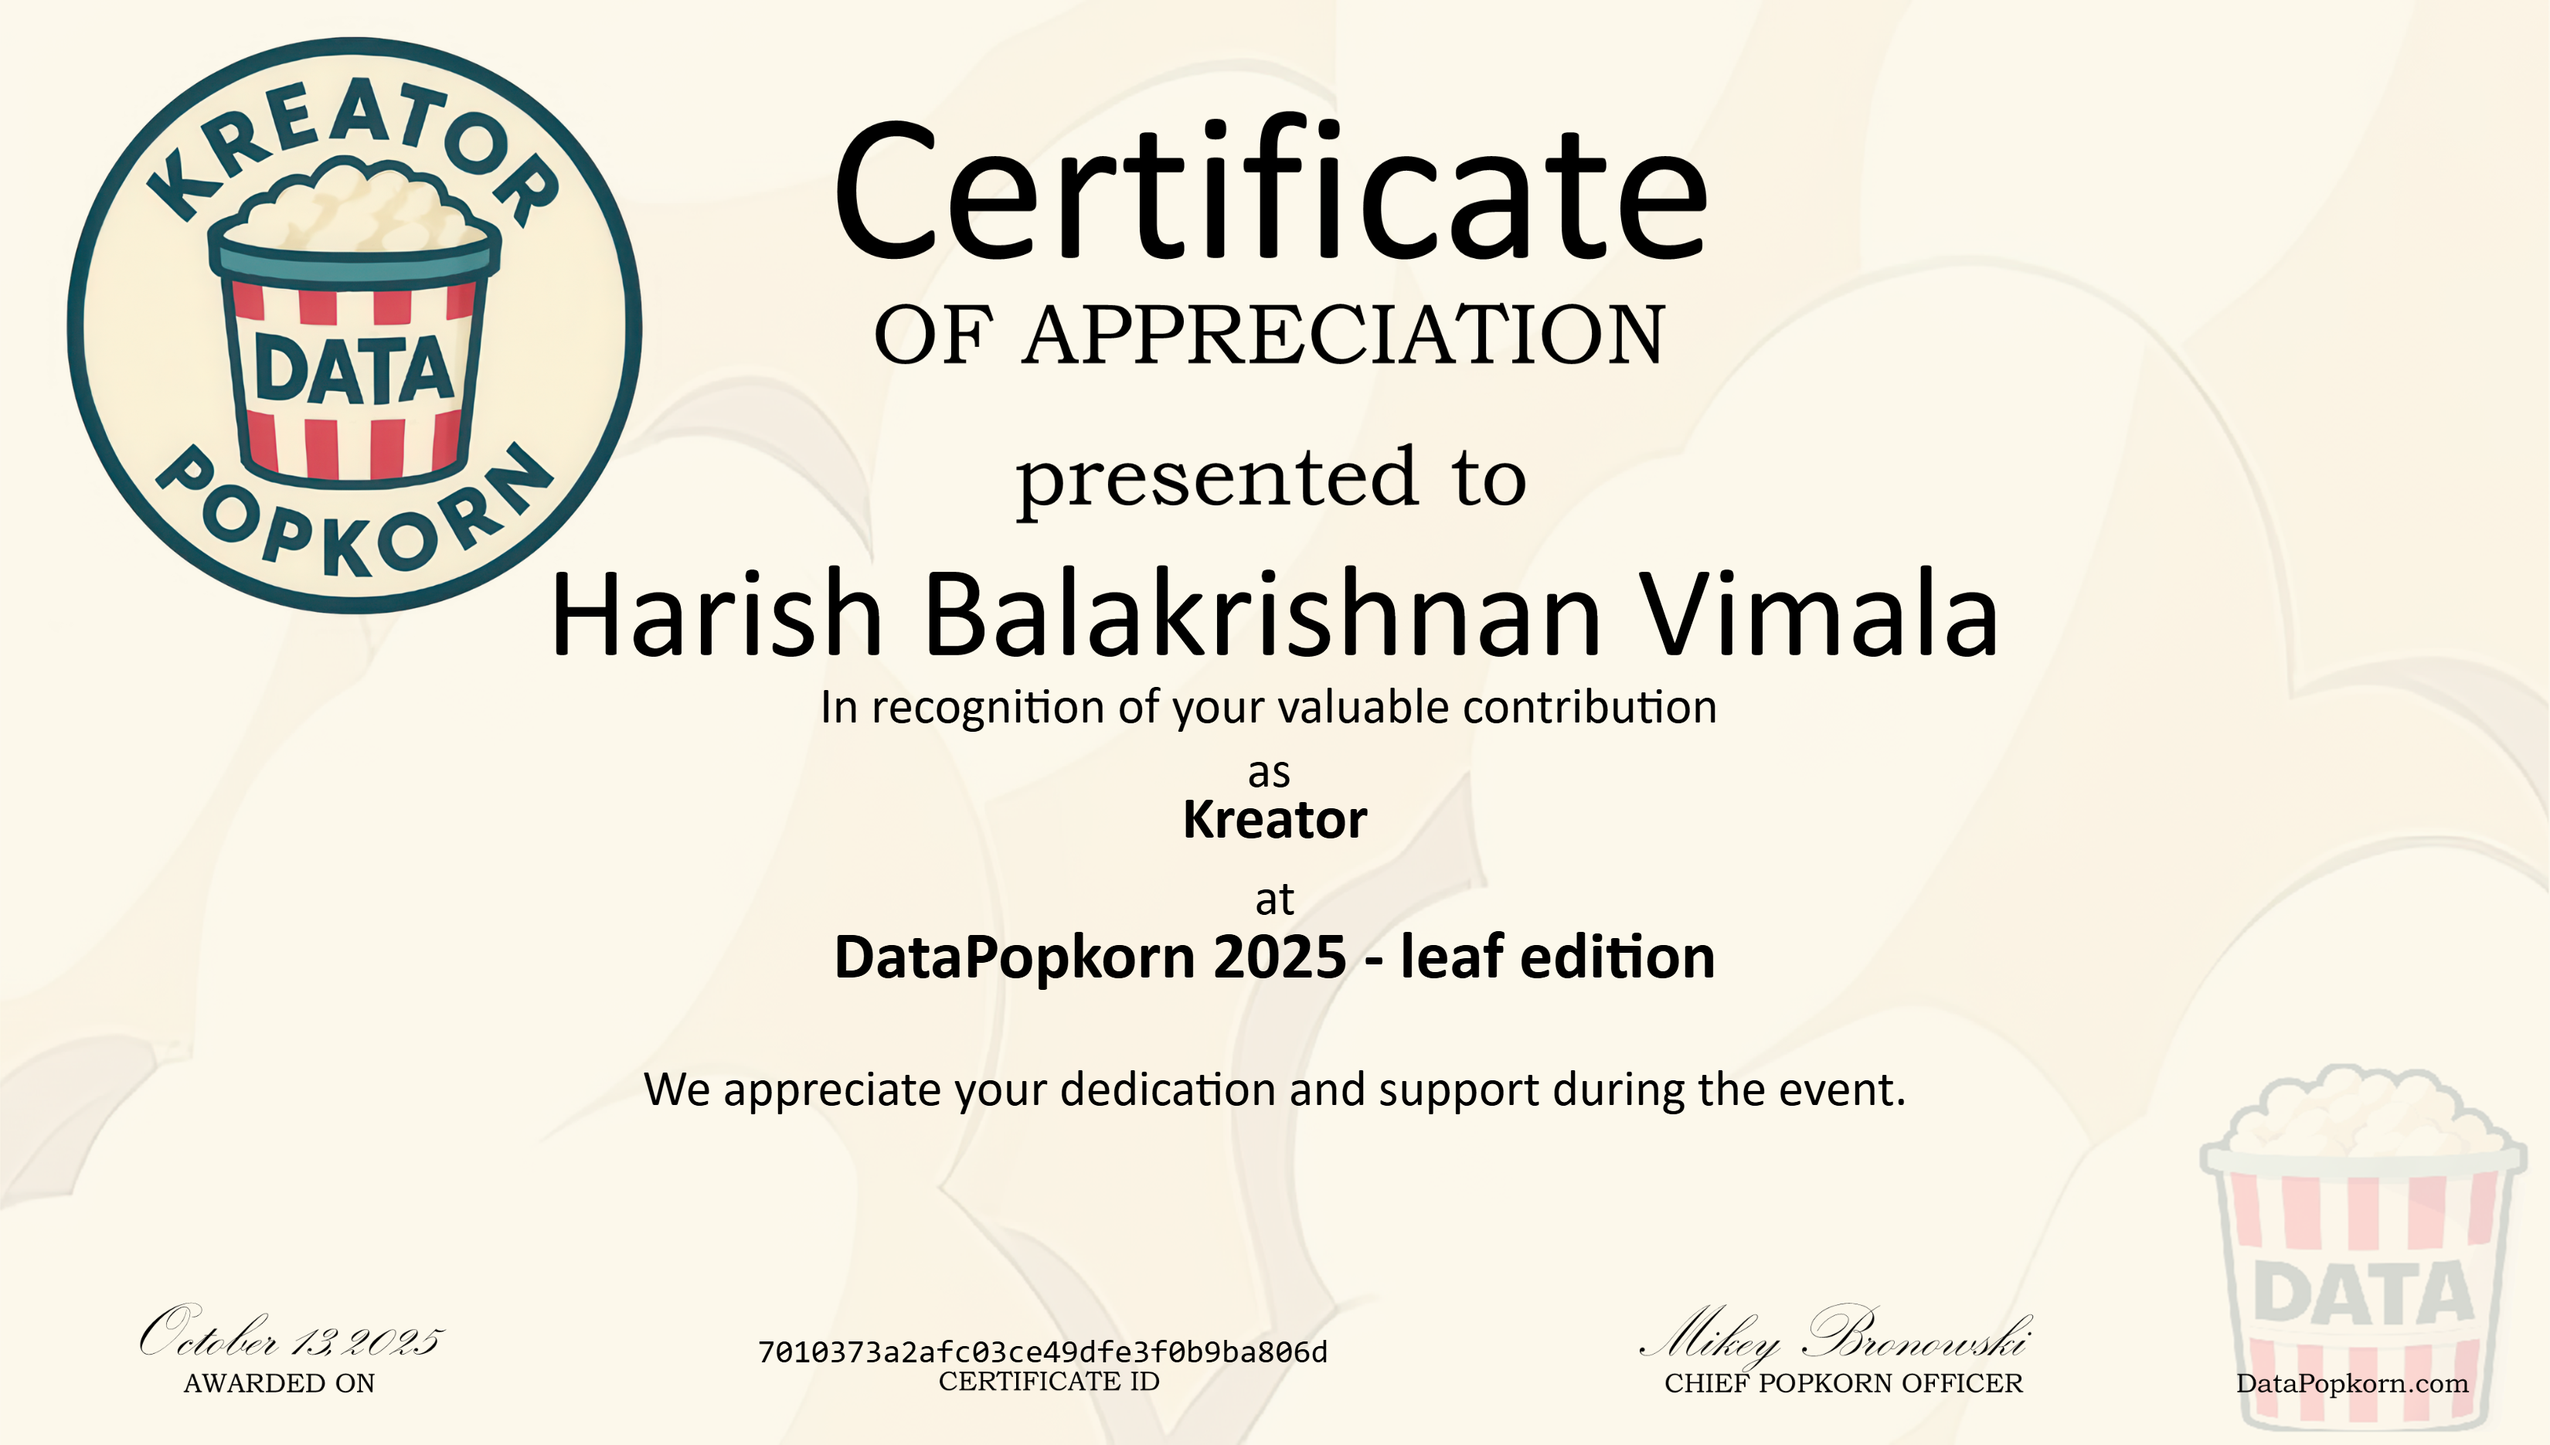
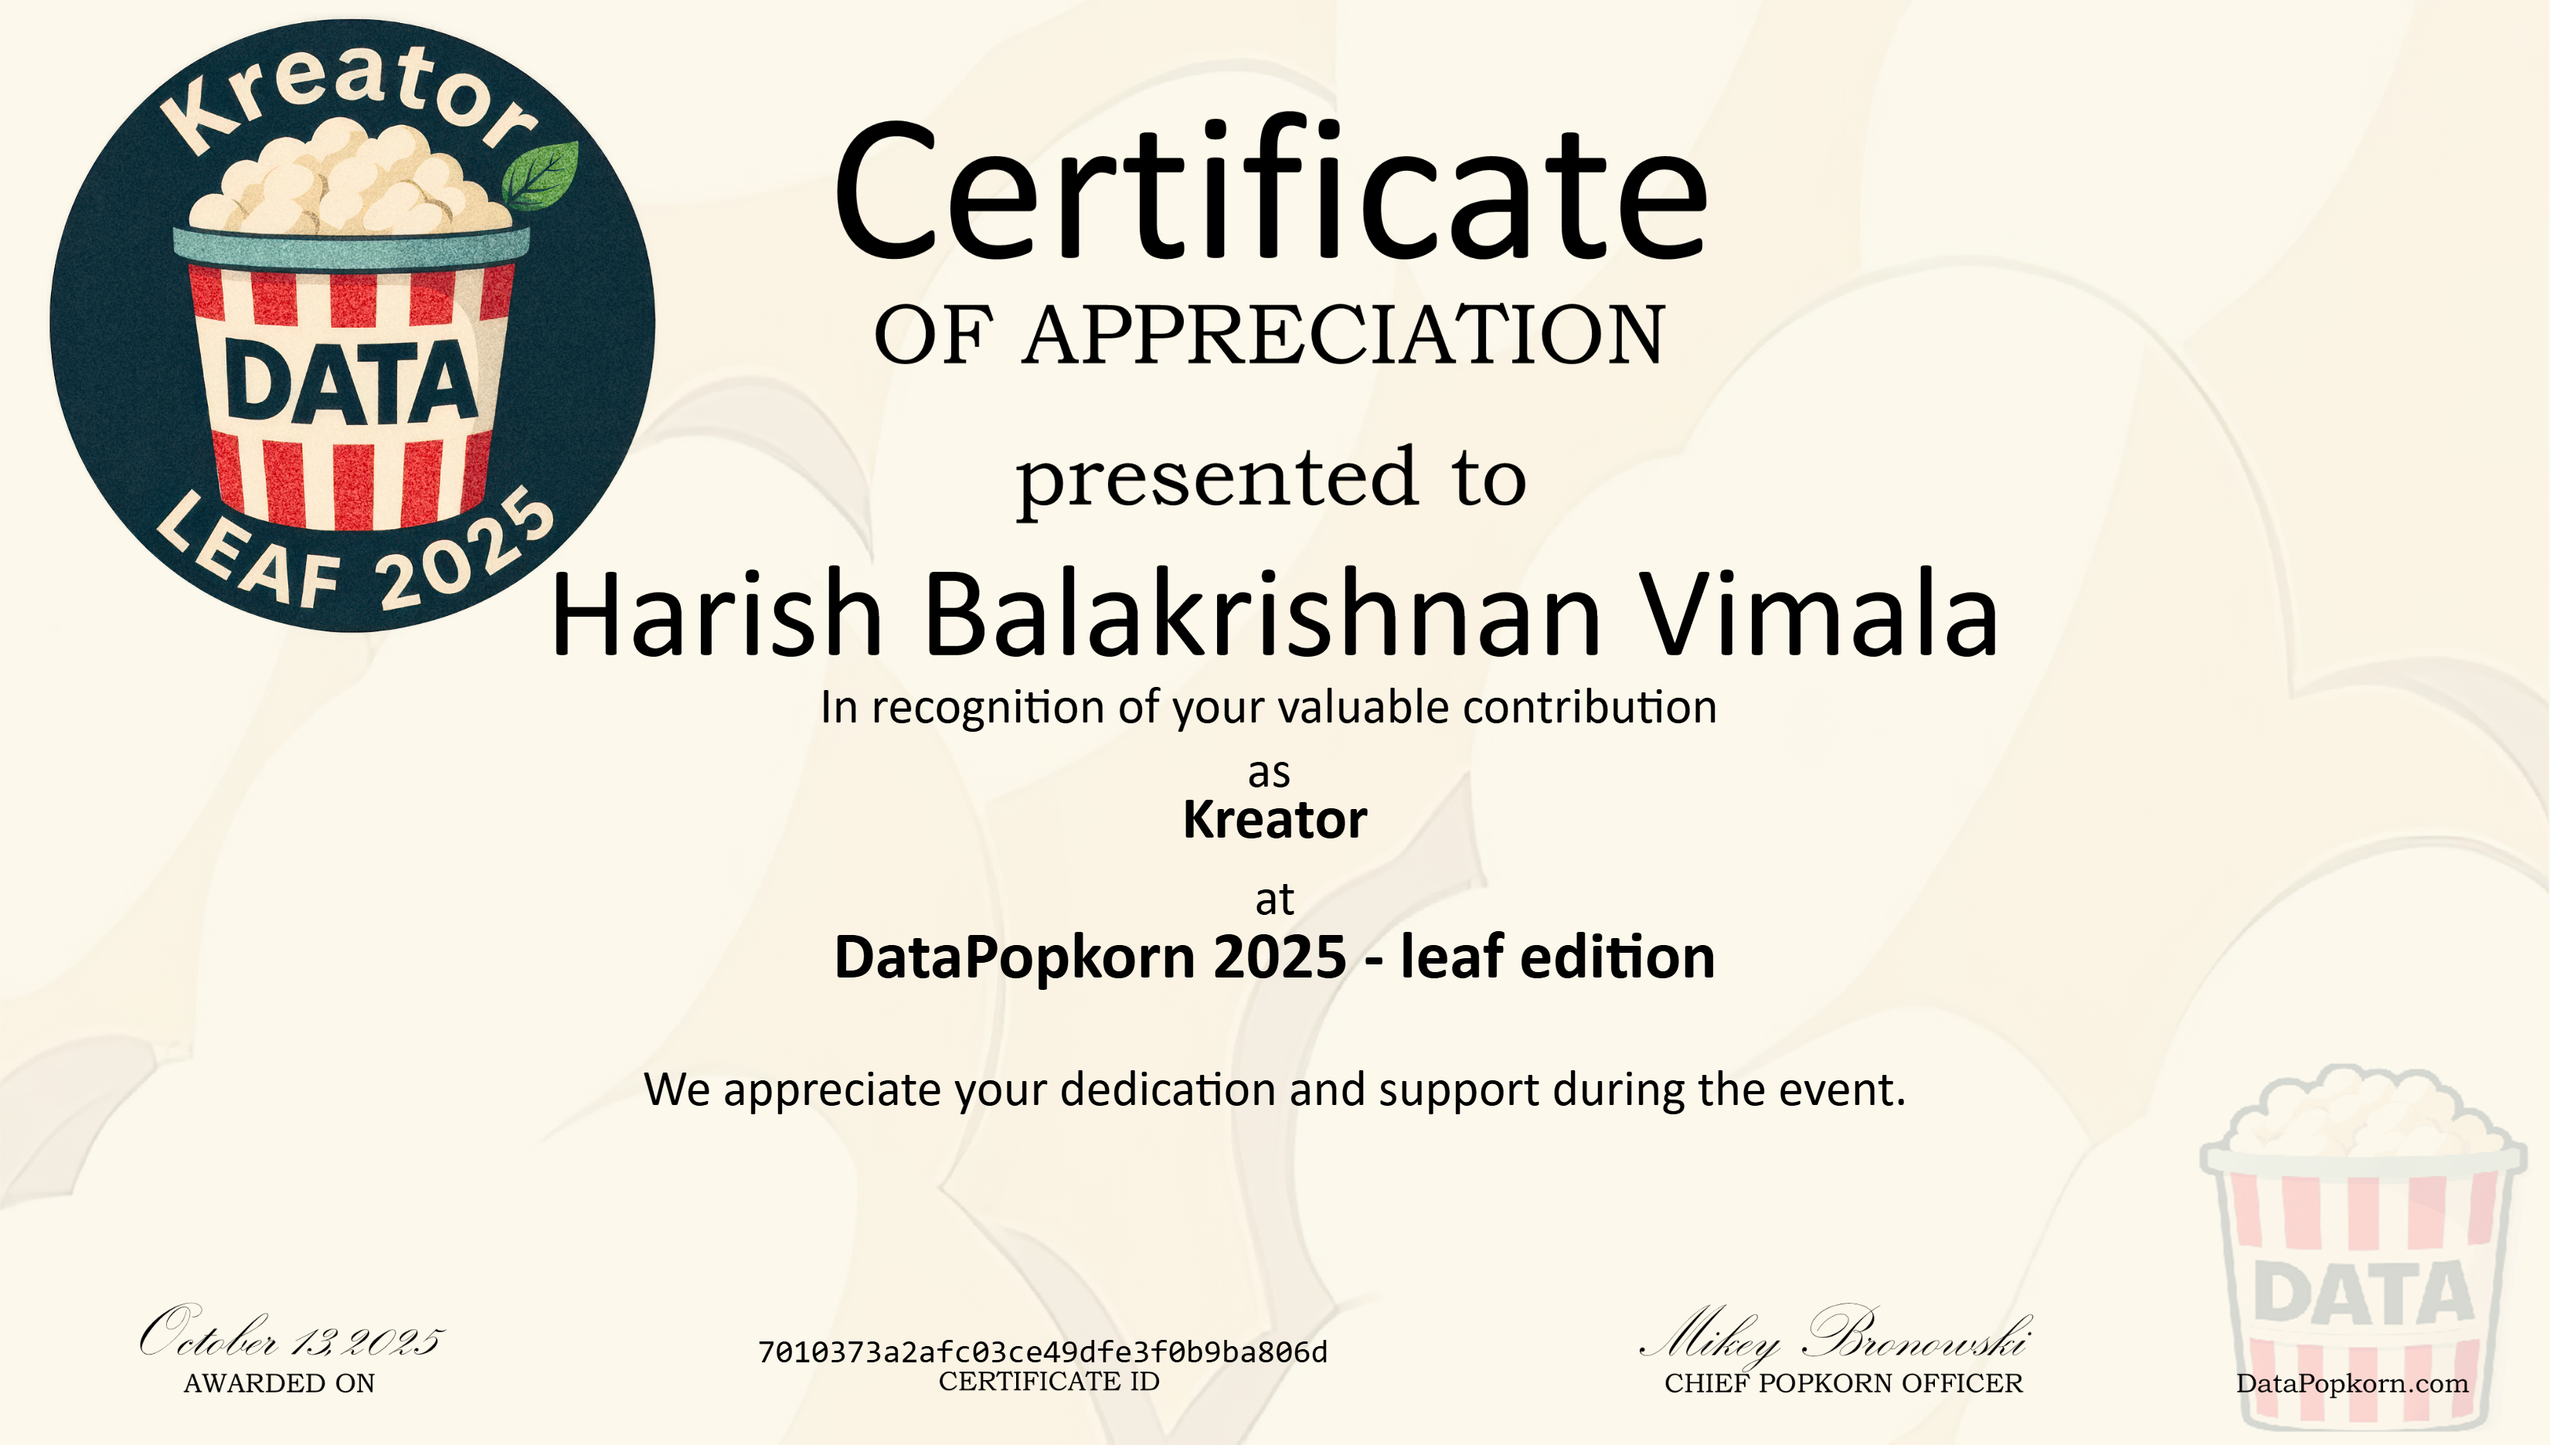
certs leaf edition

Changed region(s): [[0.0, 0.0, 0.2809, 0.4342]]

diff --git a/badge/7010373a2afc03ce49dfe3f0b9ba806d.html b/badge/7010373a2afc03ce49dfe3f0b9ba806d.html
@@ -1,0 +1,23 @@
+<!DOCTYPE html>
+<html lang="en">
+<head>
+  <meta charset="UTF-8">
+  <meta name="author" content="DataPopKorn">
+  <title>DataPopKorn Badge</title>
+  <link rel="icon" type="image/png" href="../badge/bin/favicon-32x32_2.png">
+  <link rel="stylesheet" href="../badge/bin/styles.css">
+</head>
+<body>
+  <h1>DataPopKorn Kreator Badge</h1>
+  <p>This badge was issued to <a href="../kreator/harish-balakrishnan-vimala">Harish Balakrishnan Vimala</a> on October 13, 2025</p>
+  <img id="badgeImage" class="badge" src="7010373a2afc03ce49dfe3f0b9ba806d-2048.png" alt="Certificate" />
+  <p><a href="7010373a2afc03ce49dfe3f0b9ba806d.png" download>Download Full Size Image</a></p>
+  <!-- The Modal -->
+  <div id="myModal" class="modal">
+    <span class="close">&times;</span>
+    <img class="modal-content" id="img01">
+  </div>
+
+  <script src="../badge/bin/script.js"></script>  
+</body>
+</html>

diff --git a/badge/8886e0a74e96371ebb58b712ff5c1d83.html b/badge/8886e0a74e96371ebb58b712ff5c1d83.html
@@ -1,0 +1,23 @@
+<!DOCTYPE html>
+<html lang="en">
+<head>
+  <meta charset="UTF-8">
+  <meta name="author" content="DataPopKorn">
+  <title>DataPopKorn Badge</title>
+  <link rel="icon" type="image/png" href="../badge/bin/favicon-32x32_2.png">
+  <link rel="stylesheet" href="../badge/bin/styles.css">
+</head>
+<body>
+  <h1>DataPopKorn Kreator Badge</h1>
+  <p>This badge was issued to <a href="../kreator/kalyan-pasumarthi">Kalyan Pasumarthi</a> on October 13, 2025</p>
+  <img id="badgeImage" class="badge" src="8886e0a74e96371ebb58b712ff5c1d83-2048.png" alt="Certificate" />
+  <p><a href="8886e0a74e96371ebb58b712ff5c1d83.png" download>Download Full Size Image</a></p>
+  <!-- The Modal -->
+  <div id="myModal" class="modal">
+    <span class="close">&times;</span>
+    <img class="modal-content" id="img01">
+  </div>
+
+  <script src="../badge/bin/script.js"></script>  
+</body>
+</html>

diff --git a/badge/cb1b32054ed86b59090d45fd7abdbdb2.html b/badge/cb1b32054ed86b59090d45fd7abdbdb2.html
@@ -1,0 +1,23 @@
+<!DOCTYPE html>
+<html lang="en">
+<head>
+  <meta charset="UTF-8">
+  <meta name="author" content="DataPopKorn">
+  <title>DataPopKorn Badge</title>
+  <link rel="icon" type="image/png" href="../badge/bin/favicon-32x32_2.png">
+  <link rel="stylesheet" href="../badge/bin/styles.css">
+</head>
+<body>
+  <h1>DataPopKorn Kreator Badge</h1>
+  <p>This badge was issued to <a href="../kreator/bhargav-trivedi">Bhargav Trivedi</a> on October 13, 2025</p>
+  <img id="badgeImage" class="badge" src="cb1b32054ed86b59090d45fd7abdbdb2-2048.png" alt="Certificate" />
+  <p><a href="cb1b32054ed86b59090d45fd7abdbdb2.png" download>Download Full Size Image</a></p>
+  <!-- The Modal -->
+  <div id="myModal" class="modal">
+    <span class="close">&times;</span>
+    <img class="modal-content" id="img01">
+  </div>
+
+  <script src="../badge/bin/script.js"></script>  
+</body>
+</html>

diff --git a/kreator/harish-balakrishnan-vimala.html b/kreator/harish-balakrishnan-vimala.html
@@ -1,0 +1,18 @@
+<!DOCTYPE html>
+<html lang="en">
+<head>
+  <meta charset="UTF-8">
+  <title>DataPopKorn Badge</title>
+  <link rel="icon" type="image/png" href="../badge/bin/favicon-32x32_2.png">
+  <link rel="stylesheet" href="../badge/bin/styles.css">
+</head>
+<body>
+  <h1><strong>Harish Balakrishnan Vimala</strong></h1>
+  <p>Kreator at DataPopkorn</p>
+  <div class="badge-container">
+    <a href="../badge/7010373a2afc03ce49dfe3f0b9ba806d">
+      <img class="badge" src="../badge/bin/datapopkorn2025leaf.png" alt="DataPopkorn 2025 (leaf) badge" />
+    </a>
+  </div>
+</body>
+</html>

diff --git a/kreator/kalyan-pasumarthi.html b/kreator/kalyan-pasumarthi.html
@@ -1,0 +1,18 @@
+<!DOCTYPE html>
+<html lang="en">
+<head>
+  <meta charset="UTF-8">
+  <title>DataPopKorn Badge</title>
+  <link rel="icon" type="image/png" href="../badge/bin/favicon-32x32_2.png">
+  <link rel="stylesheet" href="../badge/bin/styles.css">
+</head>
+<body>
+  <h1><strong>Kalyan Pasumarthi</strong></h1>
+  <p>Kreator at DataPopkorn</p>
+  <div class="badge-container">
+    <a href="../badge/8886e0a74e96371ebb58b712ff5c1d83">
+      <img class="badge" src="../badge/bin/datapopkorn2025leaf.png" alt="DataPopkorn 2025 (leaf) badge" />
+    </a>
+  </div>
+</body>
+</html>

diff --git a/kreator/bhargav-trivedi.html b/kreator/bhargav-trivedi.html
@@ -1,0 +1,18 @@
+<!DOCTYPE html>
+<html lang="en">
+<head>
+  <meta charset="UTF-8">
+  <title>DataPopKorn Badge</title>
+  <link rel="icon" type="image/png" href="../badge/bin/favicon-32x32_2.png">
+  <link rel="stylesheet" href="../badge/bin/styles.css">
+</head>
+<body>
+  <h1><strong>Bhargav Trivedi</strong></h1>
+  <p>Kreator at DataPopkorn</p>
+  <div class="badge-container">
+    <a href="../badge/cb1b32054ed86b59090d45fd7abdbdb2">
+      <img class="badge" src="../badge/bin/datapopkorn2025leaf.png" alt="DataPopkorn 2025 (leaf) badge" />
+    </a>
+  </div>
+</body>
+</html>
